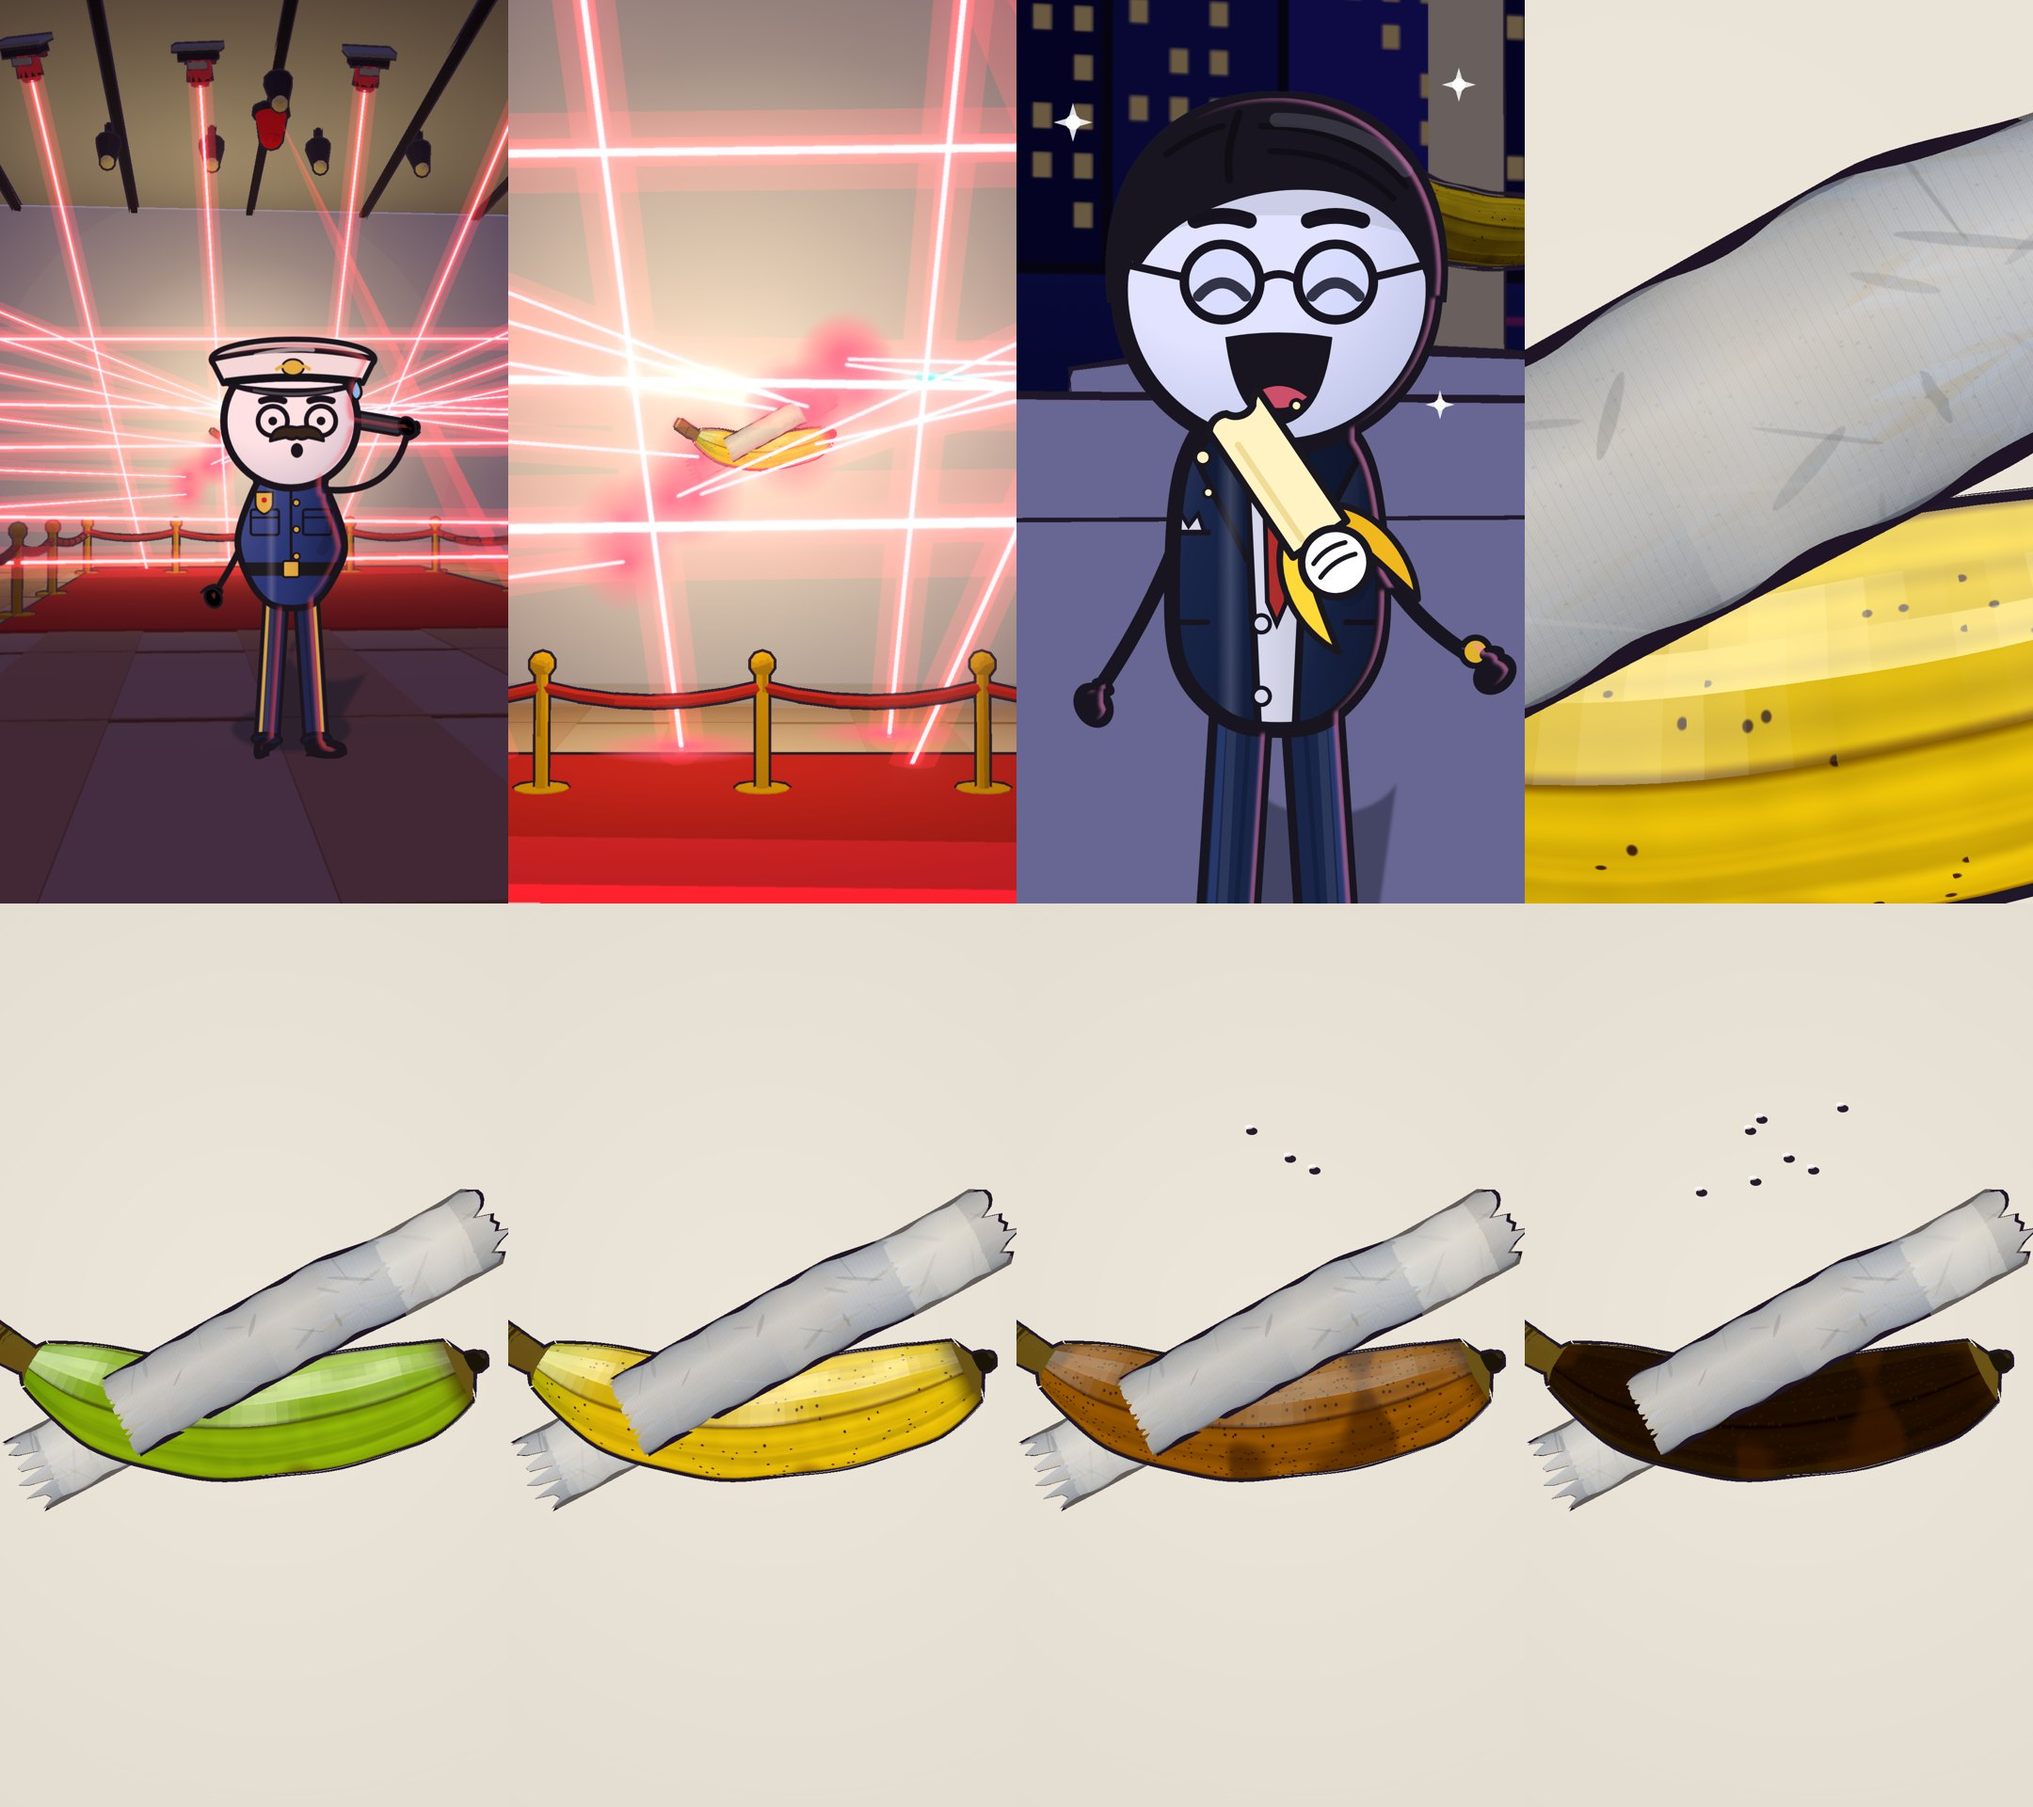
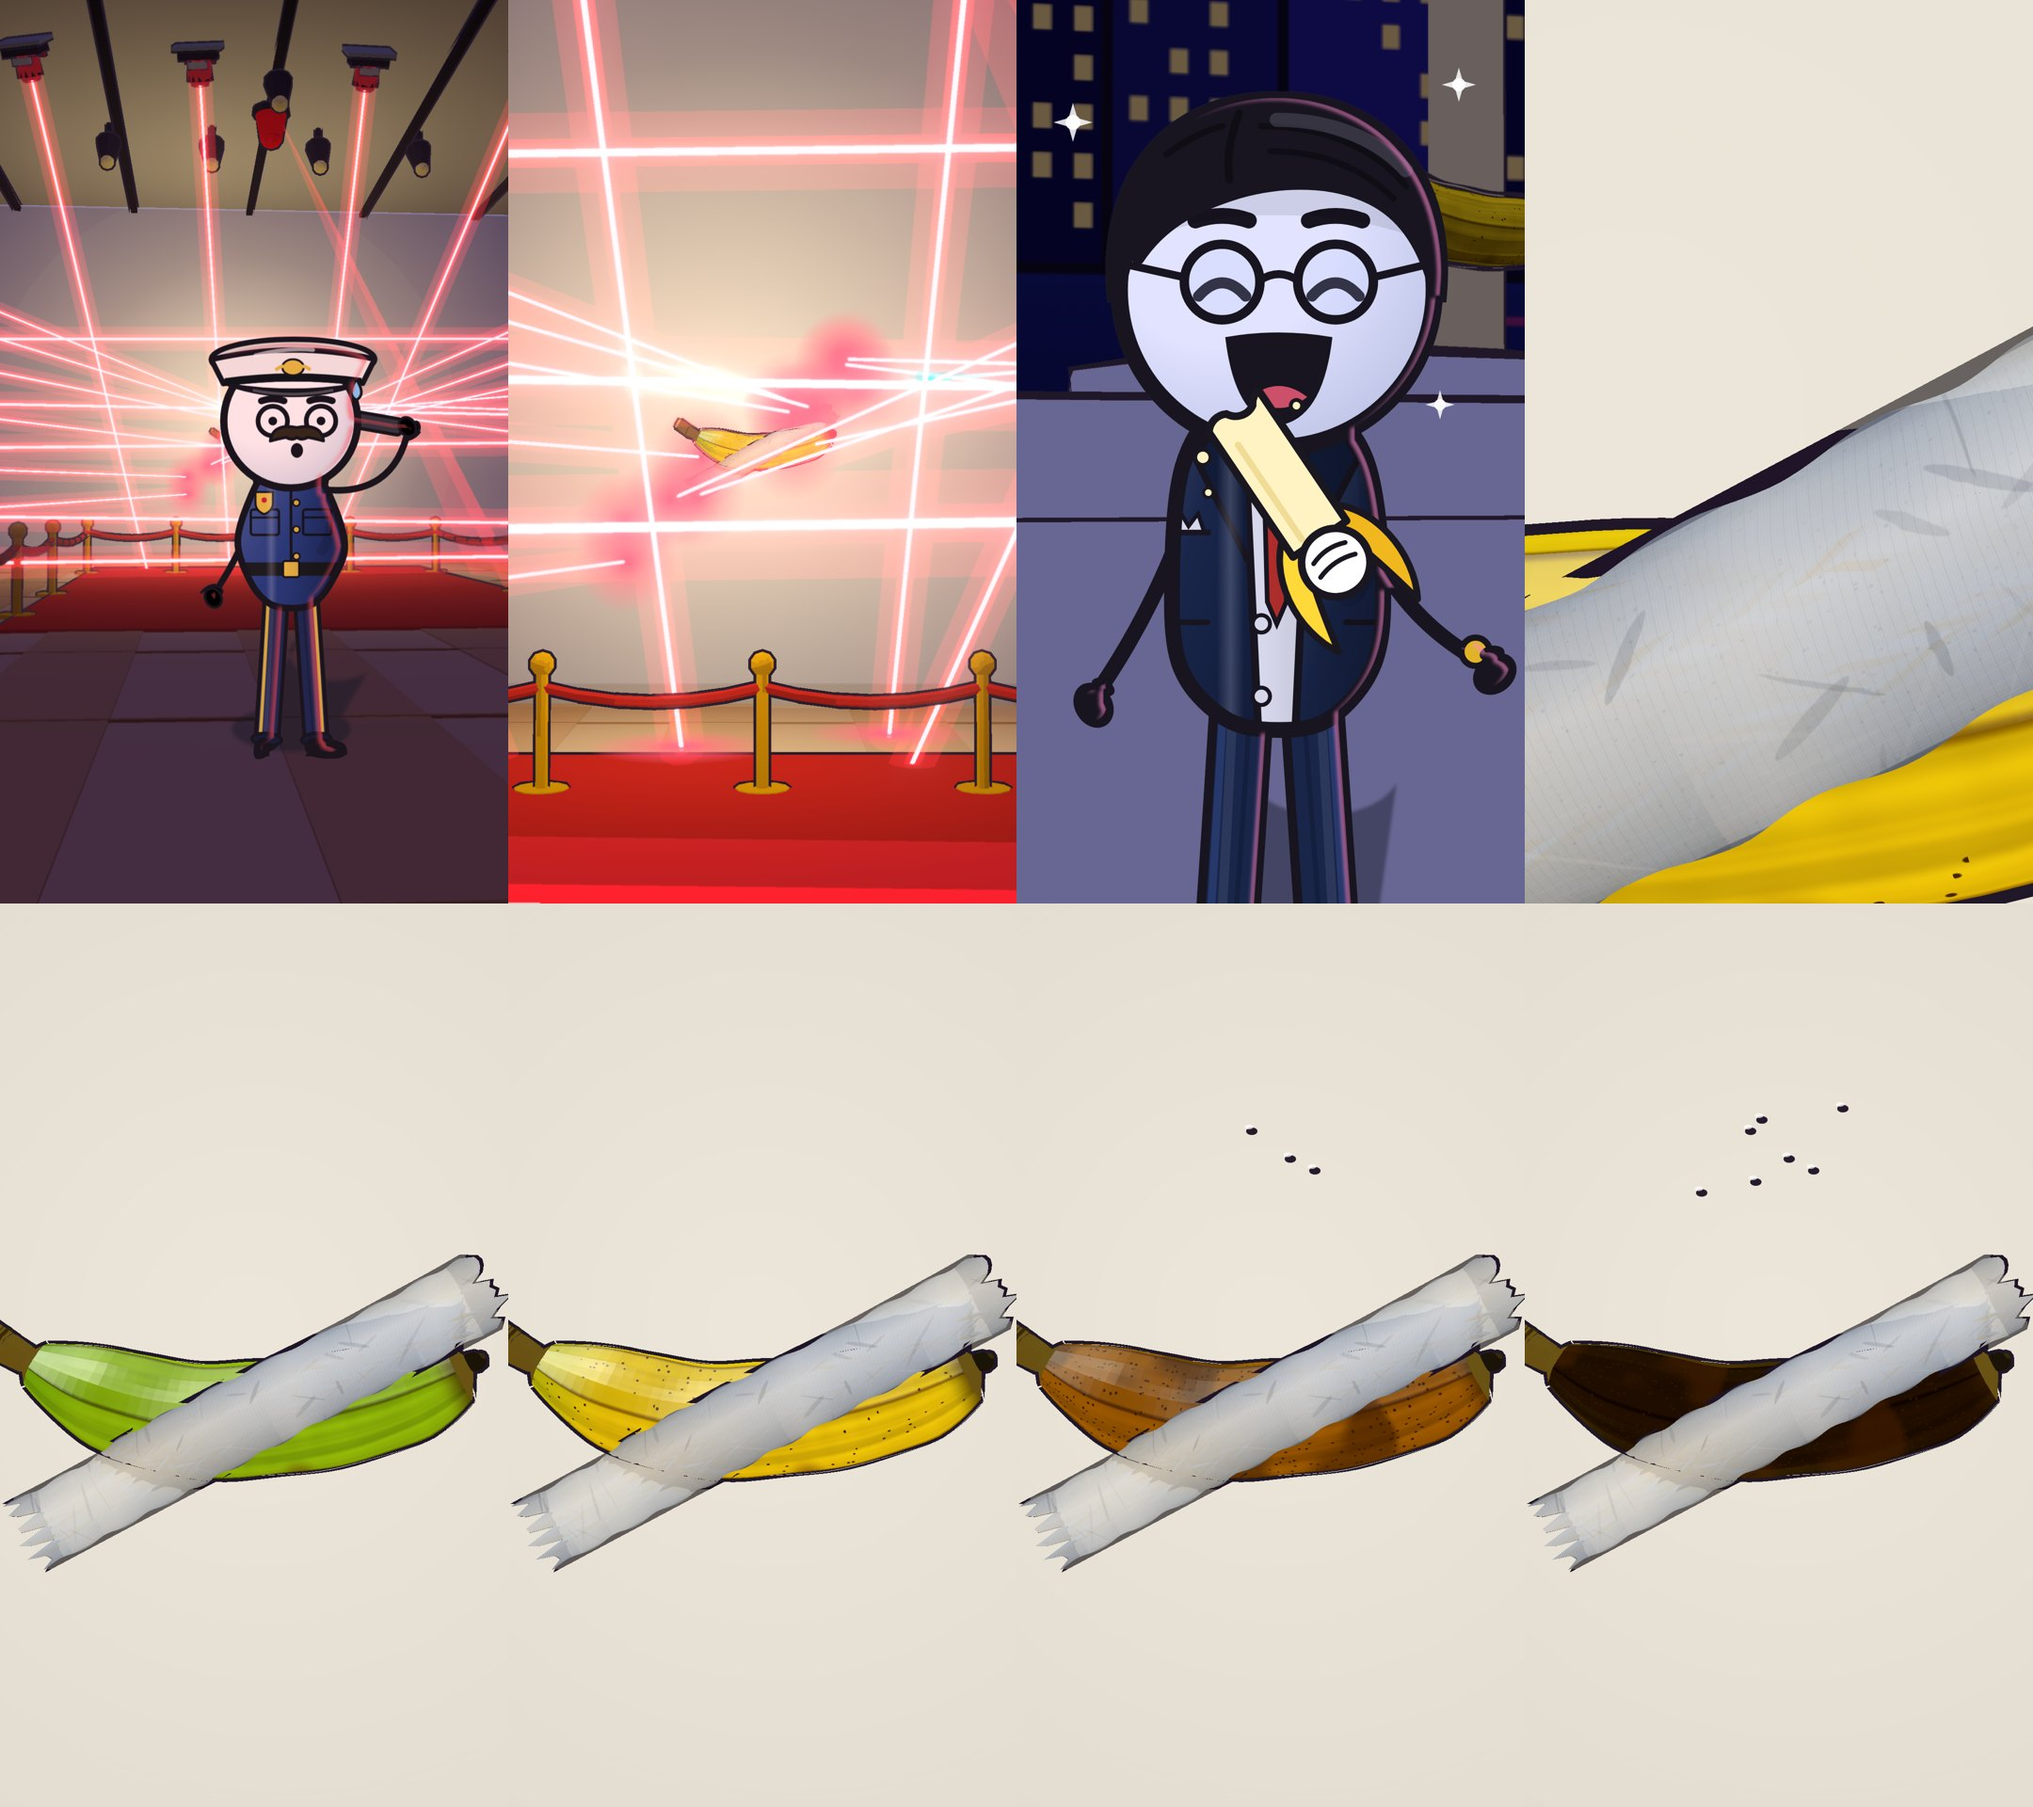
76: la cinta sigue la superficie real del plátano (ya no lo atraviesa)
Claude-Session: https://claude.ai/code/session_01DBoMy3XF4cPWESh3BDdRHR

diff --git a/archivoraro_archivo/proyectos/76_platano/world_platano.js b/archivoraro_archivo/proyectos/76_platano/world_platano.js
@@ -143,7 +143,7 @@ const W2 = (() => {
     ['gallery', 'auction', 'stage', 'stand'].forEach(n => { inkify(G[n]); SITES[n].add(G[n]); SITES[n].add(G[n + '_floor']); });
     ['banana', 'banana_big', 'wallpiece', 'cert', 'peeled', 'emitter', 'seccam', 'beacon'].forEach(n => { inkify(G[n]); G[n].visible = false; }); G.tape.visible = false; G.tape_ink.visible = false; G.tape_ink.traverse(c => { if (c.isMesh) { c.castShadow = false; c.receiveShadow = false; c.material.side = T.DoubleSide; } });
     // la obra: plátano + cinta (objeto aparte, girada) pegados a la pared blanca de la galería y de la sala de subastas
-    const art = (site, x, y, z, s) => { const b = place(G.wallpiece, site, x, y, z, 0, s); b.visible = true; const t = place(G.tape, site, x, y + .1 * s, z, 0, s); t.rotation.z = .5; t.visible = true; const ti = place(G.tape_ink, site, x, y + .1 * s, z, 0, s); ti.rotation.z = .5; ti.visible = true; t.userData.ink2 = ti; return [b, t]; };
+    const art = (site, x, y, z, s) => { const b = place(G.wallpiece, site, x, y, z, 0, s); b.visible = true; const t = place(G.tape, site, x, y - .1 * s, z, 0, s); t.rotation.z = .5; t.visible = true; const ti = place(G.tape_ink, site, x, y - .1 * s, z, 0, s); ti.rotation.z = .5; ti.visible = true; t.userData.ink2 = ti; return [b, t]; };
     [wall, tapeG] = art('gallery', LAY.banana.x, LAY.banana.y, LAY.banana.z, 1.12); [wallAu, tapeAu] = art('auction', AXo + 10.5, 4.3, -16.7, .8);
     const pl = place(G.banana, 'stage', SXo + .2, 2.78, -8., .3, .42); pl.visible = true; pl.rotation.z = -.15;
     [[-1.8, 0], [-.6, 1], [.6, 2], [1.8, 3]].forEach(([dx, k]) => { for (let i = 0; i < 3; i++) { const b = place(G.banana, 'stand', NXo - 5 + dx + (i - 1) * .22, 2.03 + i * .06, 13.5 + (i - 1) * .12, .6 * i + k, .28); b.visible = true; b.rotation.z = .2 * (i - 1); } });

diff --git a/archivoraro_archivo/proyectos/76_platano/blender/platano.py b/archivoraro_archivo/proyectos/76_platano/blender/platano.py
@@ -65,24 +65,35 @@ def banana(name, L=1.4, R=.17, bend=.95, nr=40, o=None):
     a1 = bend * .5; p1 = (Rc * math.sin(a1), Rc * (1 - math.cos(a1)), 0); d1 = (math.cos(a1), math.sin(a1), 0)
     o.sph((p1[0] + d1[0] * L * .012, p1[1] + d1[1] * L * .012, 0), R * .20, M['tipb'], (1.1, .8, .8)); o.sph((p1[0] + d1[0] * L * .028, p1[1] + d1[1] * L * .028, 0), R * .09, M['stemd'])
     return o
+# --- la cinta sigue la superficie REAL del plátano (para no atravesarlo): se calcula la altura sobre la pared en cada punto de la tira ---
+BR_L, BR_R, BR_BEND, BR_Z, TAPE_ANG = 1.45, .18, 1.0, .19, .5      # plátano de la obra (wallpiece) y giro de la cinta (el origen de la cinta = centro del plátano)
+def _sm(k): k = max(0., min(1., k)); return k * k * (3 - 2 * k)
+def tape_z(x, y, half=.85, wrinkles=True):
+    X = x * math.cos(TAPE_ANG) - y * math.sin(TAPE_ANG); Yr = x * math.sin(TAPE_ANG) + y * math.cos(TAPE_ANG)
+    Rc = BR_L / BR_BEND; a = math.asin(max(-.999, min(.999, X / Rc))); t = a / BR_BEND + .5; wall = .018
+    lift = .06 * _sm((abs(x) - (half - .17)) / .17) ** 1.5
+    if t <= .02 or t >= .98: return wall + lift, 9.
+    body = math.sin(math.pi * (.10 + .80 * t)) ** .45; neck = 1. - .55 * max(0., (.20 - t) / .20) ** 1.6 - .35 * max(0., (t - .86) / .14) ** 1.4
+    r = BR_R * (.34 + .66 * body) * neck * .95; dy = Yr - Rc * (1 - math.cos(a)); d = abs(dy)
+    zs = lambda dd: BR_Z + math.sqrt(max(r * r - dd * dd, 0.)) + .016
+    if d < .85 * r: z = zs(d)
+    else: k = _sm((d - .85 * r) / (.15 * r + .12)); z = zs(.85 * r) * (1 - k) + wall * k
+    if wrinkles:
+        e = math.exp(-((d - r) / .10) ** 2); out = _sm((d - r * .6) / (r * .5 + .1))
+        z += (.007 * math.sin(x * 60 + y * 12) + .0035 * math.sin(x * 110 - y * 26 + 1.1)) * e + .003 * math.sin(x * 30 - y * 20 + .7) * out
+    return z + lift, d
 def tape_obj():
-    # tira de cinta americana en su propio objeto (longitud en x, ancho en y, cara hacia +z). Rejilla fina con arrugas naturales,
-    # extremos rotos irregulares, bordes ligeramente ondulados y puntas despegadas. Se gira en three.js.
-    o = Obj('tape'); half, w, th, NX, NY = .85, .24, .026, 130, 14; bw, sl, top, wall = .36, .17, .19 + .18 + .012, 0.
+    # tira de cinta americana en su propio objeto (longitud en x, ancho en y, cara hacia +z; origen = centro del plátano). Rejilla fina que sigue al plátano,
+    # extremos rotos irregulares, bordes ondulados y puntas despegadas. Se gira en three.js (rotation.z = TAPE_ANG).
+    o = Obj('tape'); half, w, th, NX, NY = .85, .24, .026, 150, 14
     rr = random.Random(9); endL = [half + rr.uniform(-.05, .035) for _ in range(NY + 1)]; endR = [half + rr.uniform(-.05, .035) for _ in range(NY + 1)]
-    for j in range(1, NY, 3): endL[j] -= .03; endR[j] += .02                        # dientes del desgarro
-    def sm(k): k = max(0., min(1., k)); return k * k * (3 - 2 * k)
-    def zb(x): return wall + .018 + (top - wall - .018) * sm((bw + sl - abs(x)) / sl)
-    def wr(x, y):
-        ax = abs(x); e = math.exp(-((ax - (bw + .5 * sl)) / .10) ** 2)          # pliegues donde la cinta dobla sobre el plátano
-        arch = sm((bw + sl - ax) / sl)
-        return (.007 * math.sin(x * 60 + y * 12) + .0035 * math.sin(x * 110 - y * 26 + 1.1)) * e + .0035 * math.sin(x * 30 - y * 20 + .7) * (1 - arch) + .0022 * math.sin(x * 45 + y * 34) * arch
+    for j in range(1, NY, 3): endL[j] -= .03; endR[j] += .02
     T = []; B = []
     for i in range(NX + 1):
         tr, br = [], []
         for j in range(NY + 1):
             tj = j / NY; x = -endL[j] + (endL[j] + endR[j]) * i / NX; y = -w / 2 + w * tj + (.005 * math.sin(x * 38 + j) if j in (0, NY) else 0.)
-            lift = .06 * sm((abs(x) - (half - .17)) / .17) ** 1.5; z = zb(x) + wr(x, y) + lift
+            z = tape_z(x, y)[0]
             tr.append(o.bm.verts.new((x, y, z + th / 2))); br.append(o.bm.verts.new((x, y, z - th / 2)))
         T.append(tr); B.append(br)
     fs = []
@@ -97,18 +108,16 @@ def tape_obj():
     return o
 TP = tape_obj(); TP.finish()
 def tape_ink():        # contorno plano oscuro bajo la cinta (el contorno por inversión de casco no funciona bien con tanta rejilla)
-    o = Obj('tape_ink'); half, w, NX, NY = .85, .24, 130, 14; bw, sl, top, wall = .36, .17, .19 + .18 + .012, 0.
+    o = Obj('tape_ink'); half, w, NX, NY = .85, .24, 150, 14
     rr = random.Random(9); endL = [half + rr.uniform(-.05, .035) for _ in range(NY + 1)]; endR = [half + rr.uniform(-.05, .035) for _ in range(NY + 1)]
     for j in range(1, NY, 3): endL[j] -= .03; endR[j] += .02
-    def sm(k): k = max(0., min(1., k)); return k * k * (3 - 2 * k)
     G_ = []
     for i in range(NX + 1):
         col = []
         for j in range(NY + 1):
             x = -endL[j] + (endL[j] + endR[j]) * i / NX; y = -w / 2 + w * j / NY; ex = .012 if i in (0, NX) else 0.; ey = .012 if j in (0, NY) else 0.
             x += ex * (-1 if i == 0 else 1 if i == NX else 0); y += ey * (-1 if j == 0 else 1 if j == NY else 0)
-            lift = .06 * sm((abs(x) - (half - .17)) / .17) ** 1.5; z = wall + .018 + (top - wall - .018) * sm((bw + sl - abs(x)) / sl) + lift - .02
-            col.append(o.bm.verts.new((x, y, z)))
+            col.append(o.bm.verts.new((x, y, tape_z(x, y, wrinkles=False)[0] - .02)))
         G_.append(col)
     fs = [o.bm.faces.new((G_[i][j], G_[i][j + 1], G_[i + 1][j + 1], G_[i + 1][j])) for i in range(NX) for j in range(NY)]
     k = o.mi(M['inkflat'])

diff --git a/archivoraro_archivo/proyectos/76_platano/NOTAS.md b/archivoraro_archivo/proyectos/76_platano/NOTAS.md
@@ -18,3 +18,7 @@ Pendiente: aprobación de bocetos → escenas `sc76.js`, voz (clonada o ElevenLa
 - Plátano: UV (u largo, v alrededor) exportadas desde Blender; el shader (`ripeMat`) usa `vMapUv` (hace falta `map` ficticio): aristas con línea oscura, vetas, pecas alargadas, moratones, cuello y punta verdosos, brillo y maduración. Forma orgánica (ligera variación del radio y de la torsión).
 - Cinta: malla de rejilla 130×14 con arrugas suaves (sobre todo donde dobla sobre el plátano), bordes ondulados, extremos rotos irregulares y puntas despegadas; textura de tela con hilos finos, grano, rozaduras y reflejos. SIN contorno por casco invertido (con tanta malla sale con rayas): lleva un contorno plano aparte (`tape_ink`).
 - Lección: planarUV fallaba en la cinta (eje más fino = y); forzar ejes x,y.
+
+## Cinta atravesaba el plátano (corregido 23-11-2026)
+Causa: la cinta era un arco fijo centrado en su propio punto medio, pero el plátano cruzaba ≈0,42 m más abajo (la tira estaba descentrada y girada 0,5 rad), así que el plátano la tapaba o la atravesaba.
+Arreglo: el origen de la cinta = centro del plátano y `tape_z(x,y)` calcula la altura de cada punto sobre la superficie REAL del plátano (radio y curvatura de `banana()`), con bajada suave a la pared por los flancos. Regla: lo que se pega a un objeto debe calcularse sobre su superficie, no con un arco a ojo. Comprobar siempre con 3 ángulos (frente, lateral, picado).
